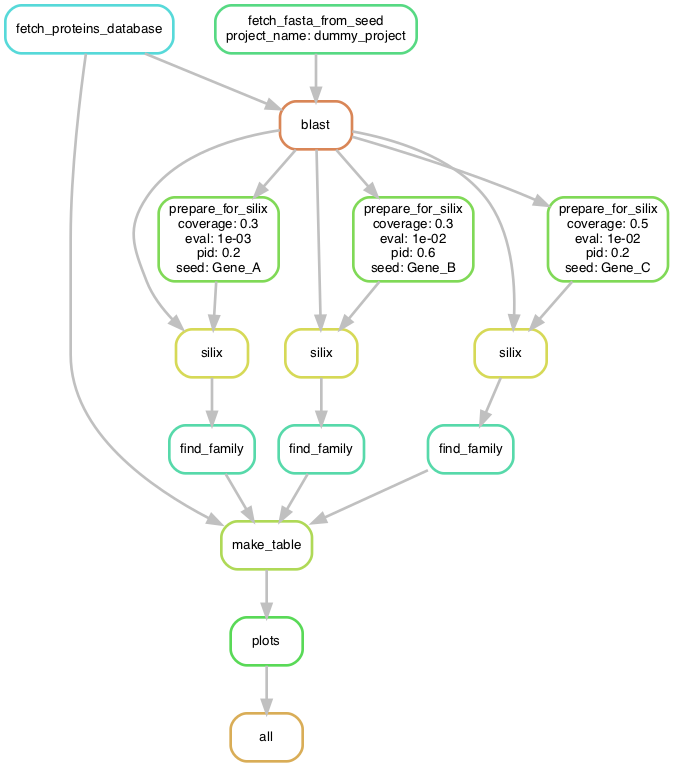
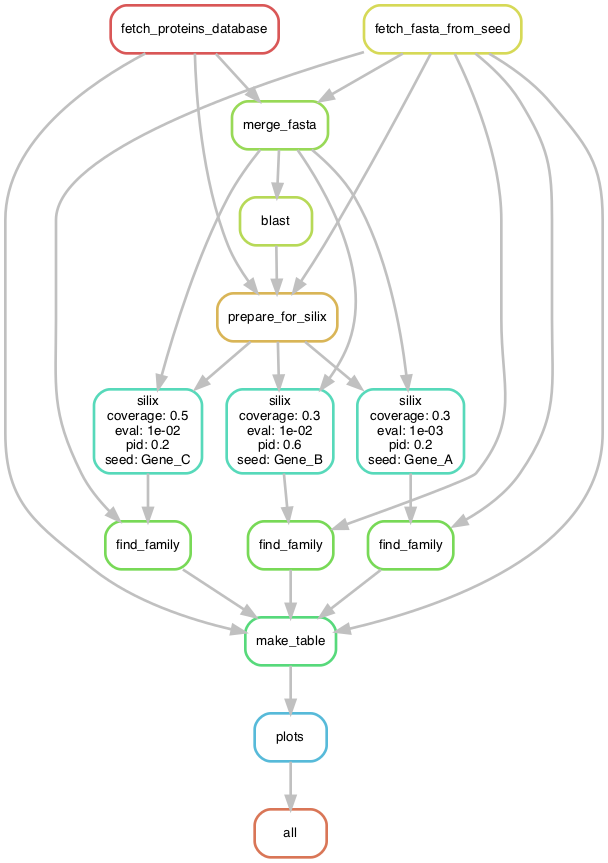
put the merge of fasta in a separate rule before blast

diff --git a/Readme.md b/Readme.md
@@ -71,7 +71,7 @@ Seed and taxonomy sheet
 
 Missing values can be specified by empty columns or by writing `NA`.
 
-### Step 4: Run the workflow
+### Step 4: run the workflow
 
 Given that the workflow has been properly deployed and configured, it can be executed as follows.
 
@@ -89,7 +89,7 @@ If you want to run the workflow with the additional step to speedup the analysis
 snakemake --cores 1 --use-conda -C speedup=True
 ```
 
-### Step 5: Generate report
+### Step 5: generate report
 
 After finalizing your data analysis, you can automatically generate an interactive visual HTML report for inspection of results together with parameters and code inside of the browser via 
 
@@ -117,7 +117,7 @@ snakemake --cores 1 --use-conda --allowed-rules silix find_family make_table plo
 
 ## Important Notes for running on the cluster
 
-### Step C-1: log on the cluster
+### Step C1: log on the cluster
 
 1) To work on the HiPerGator server, user must first open a terminal (for unix) or command prompt (for windows).  
 User must access the server by entering the following command:  
@@ -134,7 +134,7 @@ cd /blue/lagard/(GatorLink ID)
 You can access to the files of this folder on your computer by adding a server. The adresse is as follow: `\\exasmb.rc.ufl.edu`  
 For more info : https://help.rc.ufl.edu/doc/Samba_Access
 
-### Step C-2: Installation
+### Step C2: load conda
 
 Before starting the installion of the program, you will need to load `conda`; this required software is listed as follows:
 
@@ -144,7 +144,7 @@ module load conda
 
 After that the step are the same as in `Step 1: install Snakemake and Snakedeploy`, `Step 2: deploy workflow`, `Step 3: configure workflow`.
 
-### Step C-3: Running the workflow
+### Step C3: run the workflow
 
 Given that the workflow has been properly deployed and configured, it can be executed as follows.
 
@@ -203,9 +203,9 @@ sbatch my_project.sh
 
 ## Walk-Through and File Production
 
-This pipeline consists of 8/11 steps called rules that take input files and create output files. Here is a description of the pipeline.
+This pipeline consists of 9/12 steps called rules that take input files and create output files. Here is a description of the pipeline.
 
-1. As snakemake is set up, there is a 12th rule, called `all`, that serves to call the last output files and make sure they were created.
+1. As snakemake is set up, there is a last rule, called `all`, that serves to call the last output files and make sure they were created.
 
 2. A folder containing your work will be created:
 
@@ -353,10 +353,9 @@ Rule description: Create a fasta file from the psiblast results and the result o
 
 ```
 
+### Rule 3: merge_fasta
 
-### Rule 3: blast
-
-Rule description: Blast all versus all of the fasta of all proteins. 
+Rule description: Merge the proteome of interest with the seeds 
 
 ```
 
@@ -367,16 +366,31 @@ Rule description: Blast all versus all of the fasta of all proteins.
                   description = multifasta file of all the seeds from the rule fetch_fasta_from_seed
   
 · output files:
-    - blast out: type = str
-                 format = query id | subject id | percentage of identity | length of match  | mismatch | gapopen | query start position | query end position | subject start position | subject end position | e-value | bitscore
-                 description = output format of blast
     - fasta for blast: type = str
                        description = concatenation of the 2 input multifasta files
 ```
 
 
 
-### Rule 4: prepare_for_silix
+### Rule 4: blast
+
+Rule description: Blast all versus all of the fasta of all proteins. 
+
+```
+
+· input files:
+    - fasta for blast: type = str
+                       description = concatenation of the the proteome taxid and seeds multifasta files
+  
+· output files:
+    - blast out: type = str
+                 format = query id | subject id | percentage of identity | length of match  | mismatch | gapopen | query start position | query end position | subject start position | subject end position | e-value | bitscore
+                 description = output format of blast
+```
+
+
+
+### Rule 5: prepare_for_silix
 
 Rule description: Filter the blast results from the rule blast with the threshold specified for each seed in the seed file. Filters include the identity score, coverage and e-value, decided by the user. Create one new filtered blast result for each seed.  
 
@@ -400,7 +414,7 @@ Rule description: Filter the blast results from the rule blast with the threshol
 ```
 
 
-### Rule 5: silix
+### Rule 6: silix
 
 Rule description: Uses Silix to create a network of protein and give a file of the protein segregated in groups.  If the blast output file is empty, just create an empty file. 
 
@@ -425,7 +439,7 @@ Rule description: Uses Silix to create a network of protein and give a file of t
 ```
 
 
-### Rule 6: find_family
+### Rule 7: find_family
  
 Rule description: Find the group of each seed in each individual seed and record it. 
 
@@ -444,7 +458,7 @@ Rule description: Find the group of each seed in each individual seed and record
 ```
 
 
-### Rule 7: make_table
+### Rule 8: make_table
 
 Rule description: Check the presence of protein similar to the seed in each taxid and create a table of presence abscence. This table is then plotted in a colored table.
 
@@ -474,7 +488,7 @@ Rule description: Check the presence of protein similar to the seed in each taxi
 
 
 
-### Rule 8: plots
+### Rule 9: plots
 
 Rule description: The table from `make_table` is then plotted in a colored table.
 
